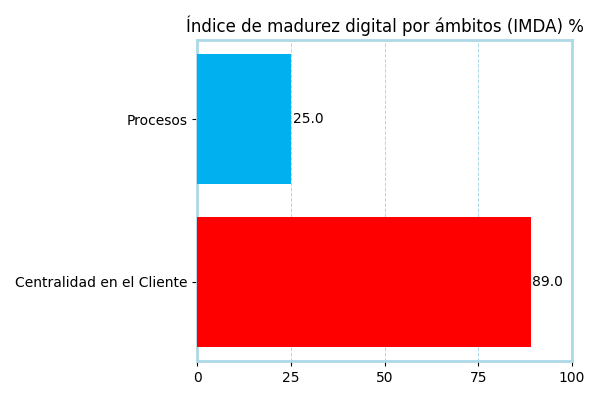
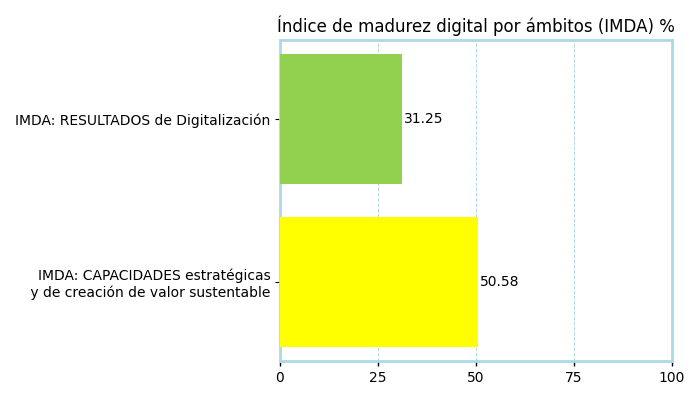
Corregidos errores generales.

diff --git a/src/Interface/newInterface/Chart/ChartMDG.java b/src/Interface/newInterface/Chart/ChartMDG.java
@@ -1,16 +1,22 @@
 package Interface.newInterface.Chart;
 
+import Interface.newInterface.python.PythonExecutor;
+
 import javax.swing.*;
+import java.awt.*;
+import java.util.Objects;
 
 public class ChartMDG extends JPanel {
 
     private JLabel matrixIMDG;
     private JLabel generalIMDG;
+    private JLabel pieLabel;
+    private JLabel header;
+    private JLabel indicator;
     private float generalIndex;
 
     /*Estos valores le pertenecen a los índices de
-     * RESULTADS DE DIGITALIZACIÓN Y CAPACIDADES ESTRATÉGICAS Y DE CREACIÓN
-     * DE VALOR SUSTENTABLES
+     * RESULTADOS DE DIGITALIZACIÓN Y CAPACIDADES ESTRATÉGICAS Y DE CREACIÓN DE VALOR SUSTENTABLES
      * Necesarios para colocar el IMDG en la gráfica*/
     //==================================================================
     private float valorX;
@@ -46,32 +52,84 @@ public class ChartMDG extends JPanel {
         setValorX(valorX);
         setValorY(valorY);
         this.generalIndex = ((this.valorX + this.valorY) / 2);
-        setSize(getMatrixIMDG().getWidth(), getMatrixIMDG().getHeight());
+
+        add(getHeader());
+        add(getIndicator());
+
+        add(getPieChart());
         add(getGeneralIMDG());
-        add(getMatrixIMDG());
         update();
+        add(getMatrixIMDG());
+
+        setBackground(Color.blue);
+        setSize(matrixIMDG.getWidth() + pieLabel.getWidth() + 100, header.getHeight() + matrixIMDG.getHeight() + 100);
     }
 
+    /**
+     * Este método se encarga de crear el Encabezado para las gráficas
+     */
+    private JLabel getHeader() {
+        if (header == null) {
+            header = new JLabel("Resultados: Madurez Digital Global (MDG)");
+            header.setFont(new Font("Franklin Gothic Raw Medium", Font.BOLD, 30));
+            header.setBounds(20, 10, 800, 80);
+            header.setOpaque(false);
+            header.setForeground(new Color(8, 52, 128));
+        }
+        return header;
+    }
+
+    private JLabel getIndicator() {
+        if (indicator == null) {
+            indicator = new JLabel();
+            indicator.setFont(new Font("Arial", Font.PLAIN, 18));
+            indicator.setBounds(145, 440, 300, 20);
+            indicator.setOpaque(false);
+            indicator.setHorizontalAlignment(SwingConstants.LEFT);
+            indicator.setHorizontalTextPosition(SwingConstants.RIGHT);
+
+
+
+            if (generalIndex >= 0 && generalIndex <= 25) {
+                indicator.setText("BÁSICO");
+                Icon icon = new ImageIcon(Objects.requireNonNull(getClass().getResource("/util/indicador- Basico.png")));
+                indicator.setIcon(icon);
+            } else if (generalIndex > 25 && generalIndex <= 50) {
+                indicator.setText("INICIAL");
+                Icon icon = new ImageIcon(Objects.requireNonNull(getClass().getResource("/util/indicador- Inicial.png")));
+                indicator.setIcon(icon);
+            } else if (generalIndex > 50 && generalIndex <= 75) {
+                indicator.setText("ESTRATÉGICO");
+                Icon icon = new ImageIcon(Objects.requireNonNull(getClass().getResource("/util/indicador - Estrategico.png")));
+                indicator.setIcon(icon);
+            } else {
+                indicator.setText("INNOVADOR - DIRSUPTIVO");
+                Icon icon = new ImageIcon(Objects.requireNonNull(getClass().getResource("/util/indicador - Innovador.png")));
+                indicator.setIcon(icon);
+            }
+        }
+        return indicator;
+    }
 
     private JLabel getMatrixIMDG() {
         if (matrixIMDG == null) {
             matrixIMDG = new JLabel();
-            ImageIcon icon = new ImageIcon(getClass().getResource("/util/MatrizIMDG.png"));
+            ImageIcon icon = new ImageIcon(Objects.requireNonNull(getClass().getResource("/util/MatrizIMDG.png")));
             matrixIMDG.setIcon(icon);
             matrixIMDG.setHorizontalAlignment(SwingConstants.CENTER);
             matrixIMDG.setHorizontalTextPosition(SwingConstants.CENTER);
-            matrixIMDG.setBounds(1, 1, icon.getIconWidth(), icon.getIconHeight());
+            matrixIMDG.setBounds(pieLabel.getHeight() + 31, header.getHeight() + 30, icon.getIconWidth(), icon.getIconHeight());
         }
         return matrixIMDG;
     }
 
 
     private JLabel getGeneralIMDG() {
-        if ((generalIMDG == null)){
+        if ((generalIMDG == null)) {
             generalIMDG = new JLabel();
-            ImageIcon icon = new ImageIcon(getClass().getResource("/util/icons8-emoji-circulo-azul-20.png"));
+            ImageIcon icon = new ImageIcon(Objects.requireNonNull(getClass().getResource("/util/icons8-emoji-circulo-azul-20.png")));
             generalIMDG.setIcon(icon);
-            generalIMDG.setToolTipText(this.valorX+";"+" "+this.valorY+";"+" "+this.generalIndex);
+            generalIMDG.setToolTipText(this.valorX + ";" + " " + this.valorY + ";" + " " + this.generalIndex);
         }
         return generalIMDG;
     }
@@ -81,23 +139,42 @@ public class ChartMDG extends JPanel {
      * <l>@param: x -> Valor del resultado de digitalización</l>
      */
     private Integer[] calcIndexPosition(float x, float y) {
-
+        y = 80;
         //NOTA → Cada cuadrado tiene 137px de ancho por 110px de largo
+        // 445x365 → medida de la gráfica central (los 12 cuadrados)
         Integer[] pos = new Integer[2];
-        pos[0] = Math.round((x * 4.45f) + 59);
-        if(y < 50.00f)
-            pos[1] = Math.round(((y * 3.65f) + 190) - 25);
-        else{
-            pos[1] = Math.round((y * 3.65f) - 165);
+        pos[0] = Math.round((x * 4.45f) + 470);
+        if (y > 50.00f)
+            pos[1] = Math.round((y * 3.65f) + 130 + 365);
+            //pos[1] = Math.round(((y * 3.65f) + header.getHeight() + 45));
+        else {
+            pos[1] = Math.round((y * 3.65f) + 130);
+            //pos[1] = Math.round((y * 3.65f) - 165);
         }
 
         return pos;
     }
 
-    public void update(){
+
+    public void update() {
         Integer[] i = calcIndexPosition(this.valorX, this.valorY);
         generalIMDG.setLocation(i[0], i[1]);
-        generalIMDG.setSize(20,20);
+        generalIMDG.setSize(20, 20);
+    }
+
+
+    private JLabel getPieChart() {
+        if (pieLabel == null) {
+            pieLabel = new JLabel("");
+
+            // Se crea la gráfica de MDA (Madurez Digital por Ámbitos)
+            String generalValue = String.valueOf(this.generalIndex);
+            PythonExecutor.pieChart("'Índice de Madurez Digital Global\\n (IMDG)'", generalValue, "3", "3.8");
+            ImageIcon icon = new ImageIcon(Objects.requireNonNull(getClass().getResource("/util/chartsPython/graficaCircular.png"), "Imagen no encontrada"));
+            pieLabel.setIcon(icon);
+            pieLabel.setBounds(1, header.getHeight() + 50, icon.getIconWidth(), icon.getIconHeight());
+        }
+        return pieLabel;
     }
 
 }

diff --git a/src/Interface/newInterface/Chart/ChartAmbits.java b/src/Interface/newInterface/Chart/ChartAmbits.java
@@ -2,9 +2,11 @@ package Interface.newInterface.Chart;
 
 
 import Interface.export.swing.CircleProgressBar;
+import Interface.newInterface.python.PythonExecutor;
 
 import javax.swing.*;
 import java.awt.*;
+import java.util.Objects;
 
 
 public class ChartAmbits extends JPanel {
@@ -17,8 +19,20 @@ public class ChartAmbits extends JPanel {
     private float index1;
     private float index2;
 
-    public ChartAmbits() {
+    private JLabel header;
+    private JLabel pieChartCapEst;
+    private JLabel pieChartResultDig;
+    private JLabel imdaChart;
+
+    public ChartAmbits(float index1, float index2) {
         setLayout(null);
+        setIndex1(index1);
+        setIndex2(index2);
+
+        add(getHeader());
+        add(getPieChartCapEst());
+        add(getImdaChart());
+        setSize(1000, 700);
     }
 
 
@@ -38,11 +52,54 @@ public class ChartAmbits extends JPanel {
         this.index2 = index2;
     }
 
+
+
+    /**
+     * Este método se encarga de crear el Encabezado para las gráficas
+     */
+    private JLabel getHeader(){
+        if(header == null){
+            header = new JLabel("Resultados: Madurez Digital por ámbitos (MDA)");
+            header.setFont(new Font("Franklin Gothic Raw Medium", Font.BOLD, 30));
+            header.setBounds(20, 10, 800, 80);
+            header.setOpaque(false);
+            header.setForeground(new Color(8, 52, 128));
+        }
+        return header;
+    }
+
+    private JLabel getPieChartCapEst(){
+        if(pieChartCapEst == null){
+            pieChartCapEst = new JLabel();
+
+            String value = String.valueOf(this.index1);
+            PythonExecutor.pieChart("'IMDA: Capacidades estratégicas\\n y de creación de valor sustentable'", value, "", "4");
+            Icon icon = new ImageIcon(Objects.requireNonNull(getClass().getResource("/util/chartsPython/graficaCircular.png")));
+            pieChartCapEst.setIcon(icon);
+            pieChartCapEst.setBounds(1, header.getHeight() + 50, icon.getIconWidth(), icon.getIconHeight());
+        }
+        return pieChartCapEst;
+    }
+
+
+    private JLabel getImdaChart(){
+        if(imdaChart == null){
+            imdaChart = new JLabel();
+
+            String values = "[" + this.index1 + "," + this.index2 + "]";
+            PythonExecutor.imdChart("['IMDA: CAPACIDADES estratégicas\\n y de creación de valor sustentable', 'IMDA: RESULTADOS de Digitalización']", values, "7", "4");
+            Icon icon = new ImageIcon(Objects.requireNonNull(getClass().getResource("/util/chartsPython/grafica.png")));
+            imdaChart.setIcon(icon);
+            imdaChart.setBounds(pieChartCapEst.getWidth()+ 10, header.getHeight() + 50, icon.getIconWidth(), icon.getIconHeight());
+        }
+        return imdaChart;
+    }
+
     @Override
     protected void paintComponent(Graphics grphcs) {
-        drawChartAmbits(grphcs);
-        drawChartAmbitsPastel(grphcs);
-        super.paintComponent(grphcs);
+        //drawChartAmbits(grphcs);
+        //drawChartAmbitsPastel(grphcs);
+        //super.paintComponent(grphcs);
     }
 
     /*Métodos para dibujar las gráficas*/

diff --git a/src/Interface/newInterface/Chart/ReportPanel.java b/src/Interface/newInterface/Chart/ReportPanel.java
@@ -72,10 +72,10 @@ public class ReportPanel extends JScrollPane {
             panelShadow = new PanelShadow();
             panelShadow.setBounds(3, 3, 1030, 4000);
             panelShadow.setLayout(null);
-            panelShadow.add(getChartAmbits());
             panelShadow.add(getChartMDG());
-            panelShadow.add(getMDChart(1));
-            panelShadow.add(getPieChart(1));
+            panelShadow.add(getChartAmbits());
+            //panelShadow.add(getMDChart(1));
+            //panelShadow.add(getMDChart(1));
 
             // Crea la imagen del panel para luego exportarla al pdf y word
             BufferedImage image = new BufferedImage(panelShadow.getWidth(), panelShadow.getHeight(), BufferedImage.TYPE_INT_RGB);
@@ -141,7 +141,7 @@ public class ReportPanel extends JScrollPane {
     private ChartMDG getChartMDG() throws IOException {
         if (chartMDG == null){
             chartMDG = new ChartMDG(14.58f, 31.25f);
-            chartMDG.setLocation(400,100);
+            chartMDG.setLocation(10,10);
             chartMDG.setBackground(null);
             chartMDG.setOpaque(false);
 
@@ -149,18 +149,16 @@ public class ReportPanel extends JScrollPane {
         return chartMDG;
     }
 
-    /*Método para crear todas las cosas que tienen ver con los resultados del
+    /**Método para crear todas las cosas que tienen ver con los resultados del
       índice de madurez digital por ámbitos*/
     private ChartAmbits getChartAmbits() throws Exception {
         if (chartAmbits == null) {
-            chartAmbits = new ChartAmbits();
-            chartAmbits.setBounds(15, 700, 1000, 700);
+            chartAmbits = new ChartAmbits(50.58f, 31.25f);
+            chartAmbits.setLocation(15, 600);
             chartAmbits.setOpaque(false);
             chartAmbits.setBackground(Color.WHITE);
 
             //Valores de prueba para la tabla de los Ámbitos
-            chartAmbits.setIndex1(50.58f);
-            chartAmbits.setIndex2(31.25f);
 
         }
         return chartAmbits;

diff --git a/src/Interface/newInterface/python/PythonCharts.py b/src/Interface/newInterface/python/PythonCharts.py
@@ -5,13 +5,10 @@ import ast
 
 from sympy import Float, Integer
 
-def crear_grafico_IMDA(categorias, valores, whidth, height):
+def crear_grafico_IMDA(categorias, valores, width, height):
     ####GRAFICO DE INDICE DE MADUREZ DIGITAL POR AMBITOS
 
 
-    # Datos para el gráfico
-    # categorias = ['RESULTADOS de digitalización', 'CAPACIDADES Estratégicas y\n de creación de valor sustentable']
-    # valores = [31.25, 14.58]
 
     # Determinar colores para cada valor
     colores = []
@@ -27,6 +24,7 @@ def crear_grafico_IMDA(categorias, valores, whidth, height):
         else:
             colores.append((0.5, 0.5, 0.5))  # Gris para valores fuera de rango
 
+
     color_borde = (173/255, 216/255, 230/255)  # Azul clarito en formato RGB normalizado
 
     # Crear el gráfico de barras horizontales
@@ -34,6 +32,7 @@ def crear_grafico_IMDA(categorias, valores, whidth, height):
     plt.barh(categorias, valores, color=colores, zorder = 3)
 
     plt.xticks([0, 25, 50, 75, 100])
+    plt.tick_params(axis='x', width = 1)
 
     # Cambiar el color de las líneas de la grilla del eje x
     plt.grid(axis='x', color=color_borde, linestyle='--', linewidth=0.7, zorder = 0)
@@ -104,7 +103,7 @@ def crear_circle_progress_bar(categoria, porcentaje, width, height):
 
     # Mostrar el gráfico
     plt.axis('equal')  # Para que el gráfico se vea como un círculo
-    #plt.show()
+    # plt.show()
     current_dir = os.getcwd()
     file_path = os.path.join(current_dir, 'src', 'util', 'chartsPython' , 'graficaCircular.png')
     plt.savefig(file_path)

diff --git a/src/Interface/newInterface/Help.java b/src/Interface/newInterface/Help.java
@@ -13,7 +13,7 @@ public class Help extends JDialog {
 
     public Help(Principal1 window){
         super(window, true);
-        setTitle("Necesitas Ayuda?");
+        setTitle("¿Necesitas Ayuda?");
         setIconImage(new ImageIcon(Objects.requireNonNull(getClass().getResource("/util/help-circle-svgrepo-com(1).png"))).getImage());
         setBounds(100, 100, 750, 450);
         setLocationRelativeTo(null);
@@ -32,7 +32,7 @@ public class Help extends JDialog {
         if(lblInfo == null){
             lblInfo = new JLabel();
             lblInfo.setFont(new Font("Arial Rounded MT Bold", Font.PLAIN, 14));
-            lblInfo.setText("Si necesitas ayuda escanea el siguiente código QR o presiona aqui para ir a nuestra pag web.");
+            lblInfo.setText("Si necesitas ayuda escanea el siguiente código QR o presiona aquí para ir a nuestra pag web.");
             lblInfo.setBounds(0, 0, 500, 50);
 
 

diff --git a/src/Interface/newInterface/python/PythonExecutor.java b/src/Interface/newInterface/python/PythonExecutor.java
@@ -24,7 +24,8 @@ public class PythonExecutor {
 
             if(width.isEmpty())
                 width = "3";
-            else if(height.isEmpty())
+
+            if(height.isEmpty())
                 height = "3";
 
             String a = System.getProperty("user.dir");
@@ -65,7 +66,8 @@ public class PythonExecutor {
             // Define las categorías y valores
             if(width.isEmpty())
                 width = "6";
-            else if(height.isEmpty())
+
+            if(height.isEmpty())
                 height = "4";
 
             String a = System.getProperty("user.dir");
